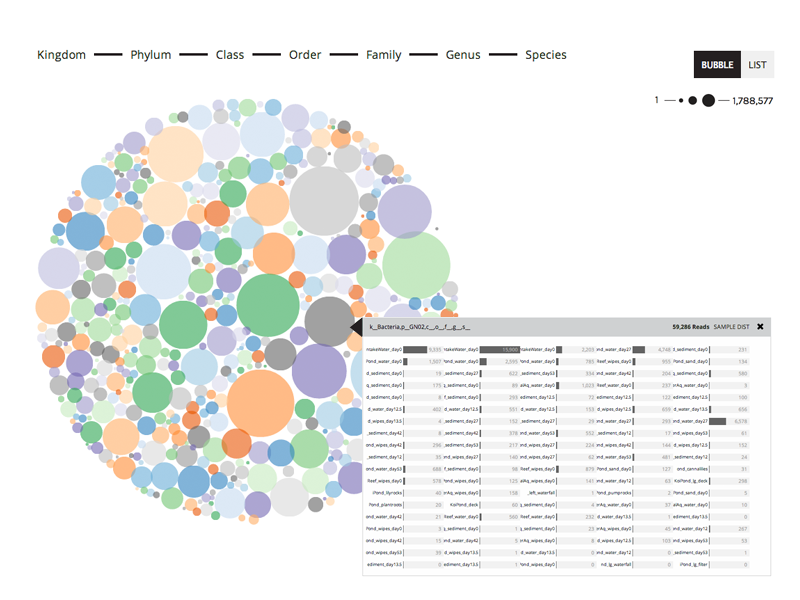
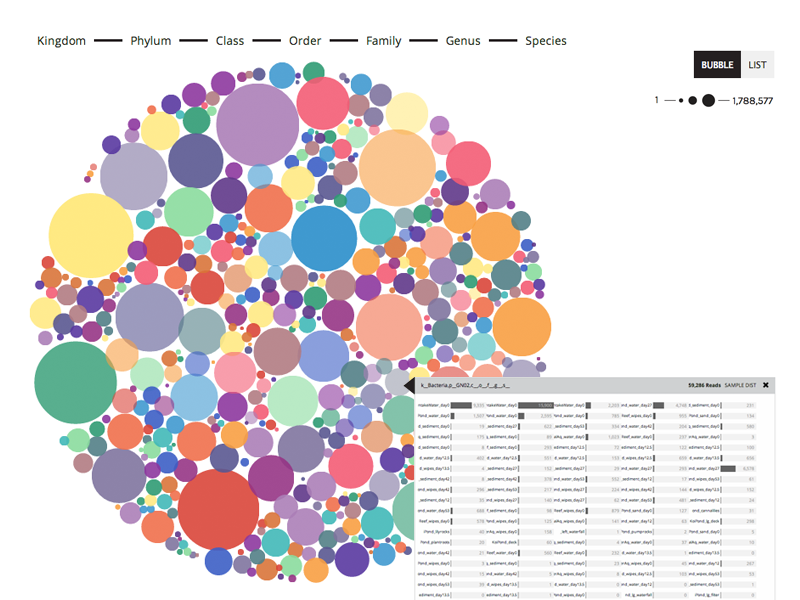
fix several visual bugs and finish UIs

diff --git a/css/viz.css b/css/viz.css
@@ -10,9 +10,9 @@
 #GraphGallery {margin-left: 10px;}
 .graphGalleryTitle { width: 100%; height: 25px; float: left; text-align: center;}
 
-#share_box { display: none; z-index: 5; background: #fff; border: 1px solid rgba(0,0,0,0.2); box-shadow: 0 3px 9px rgba(0,0,0,0.5); outline: 0; color: #222222; width: 700px; height: 300px; top: 310px; position: fixed; left: calc(40% - 250px);}
+#share_box { display: none; z-index: 5; background: #fff; border: 1px solid #000; outline: 0; color: #919396; width: 700px; height: 300px; top: 310px; position: fixed; left: calc(40% - 250px);}
 #share_box .info { font-size: 16px; margin: 20px 0 0 20px; }
-#share_box .info span { color: #ff8900; font-style: italic; }
+#share_box .info span { color: #241f20; font-style: italic; }
 
 #taxonomy_container { width: 100%; opacity: 0;}
 #loadingIcon { position: absolute; top: 400px; left: 600px; opacity: 0;}
@@ -28,10 +28,10 @@
 #sharingInfo .shareForm { padding: 20px; display: none;}
 #sharingInfo label { display: block; margin-bottom: 3px;}
 #sharingInfo label:before { display: none;}
-#sharingInfo input { display: block; margin-bottom: 10px; outline: none; border: #ff8900 solid 1px; }
-#sharingInfo textarea { outline: none; border: #ff8900 solid 1px; }
+#sharingInfo input { display: block; margin-bottom: 10px; outline: none; border: #241f20 solid 1px; }
+#sharingInfo textarea { outline: none; border: #241f20 solid 1px; resize: none;}
 #sharingInfo .results { padding: 20px; margin-top: 15%; }
-#sharingInfo .results a { color: #ff8900; }
+#sharingInfo .results a { color: #241420; }
 
 /* Layer Switch Part */
 #layerSwitch { font-family: 'Karla', sans-serif; display: none;  width: 802px; height: 36px; margin: -90px 0px 0px 20px;}
@@ -59,7 +59,7 @@
 
 /* Auto-Complete Sections */
 
-#tags { font-family: 'Karla', sans-serif;display: none; width: 200px; height: 32px; position: absolute; right: 20px; top: 191px; font-size: 15px; border: none; background: #f0f0f0; z-index: 3; text-align: right; padding-right: 15px;}
+#tags { font-family: 'Karla', sans-serif;display: none; width: 200px; height: 34px; position: absolute; right: 20px; top: 180px; font-size: 15px; border: none; background: #f0f0f0; z-index: 3; text-align: right; padding-right: 15px;}
 #autoCompleteList {  display: none; position: absolute; right: 20px; top: 240px; font-size: 12px;  line-height: 16px;  border-radius: 3px;  background: rgba(255,255,255,0.9);  color: #000;  box-shadow: 0 1px 5px rgba(0,0,0,0.4);  -moz-box-shadow: 0 1px 5px rgba(0,0,0,0.4); overflow-y: scroll; max-height: 400px; z-index: 1;}
 #autoCompleteList ul { list-style: none; padding: 15px 10px 0px 15px;}
 #autoCompleteList ul li { padding: 5px 0;}

diff --git a/css/home.css b/css/home.css
@@ -88,7 +88,7 @@
 
 #about { width: 900px; margin: auto;}
 #recent { width: 900px; margin: auto; display: none;}
-#recent_data { position: relative; z-index:2; width: 900px; font-size: 16px; text-align: center;}
+#recent_data { position: relative; z-index:2; width: 900px; font-size: 14px; text-align: center;}
 .recent_data .del, .recent_data .print, .recent_data .reload { cursor: pointer; }
 .reload { width: 100px; font-weight: bold; }
 .reload:hover {color: #241f20; cursor: pointer;}

diff --git a/preview.html b/preview.html
@@ -83,7 +83,7 @@
     <section id = "NotSupported">
         <br /> <br />
         <h1>NOT SUPPORTED</h1>
-        <p>The browser you are using does not support <a href="https://developer.mozilla.org/en-US/docs/IndexedDB" target="_blank">IndexedDB</a>, which is required for the Phinch framework!</p>
+        <p>Chrome Browser Recommended! Your browser does not support the Phinch framework!</p>
     </section>
 
     <section id = "bottom_sec">
